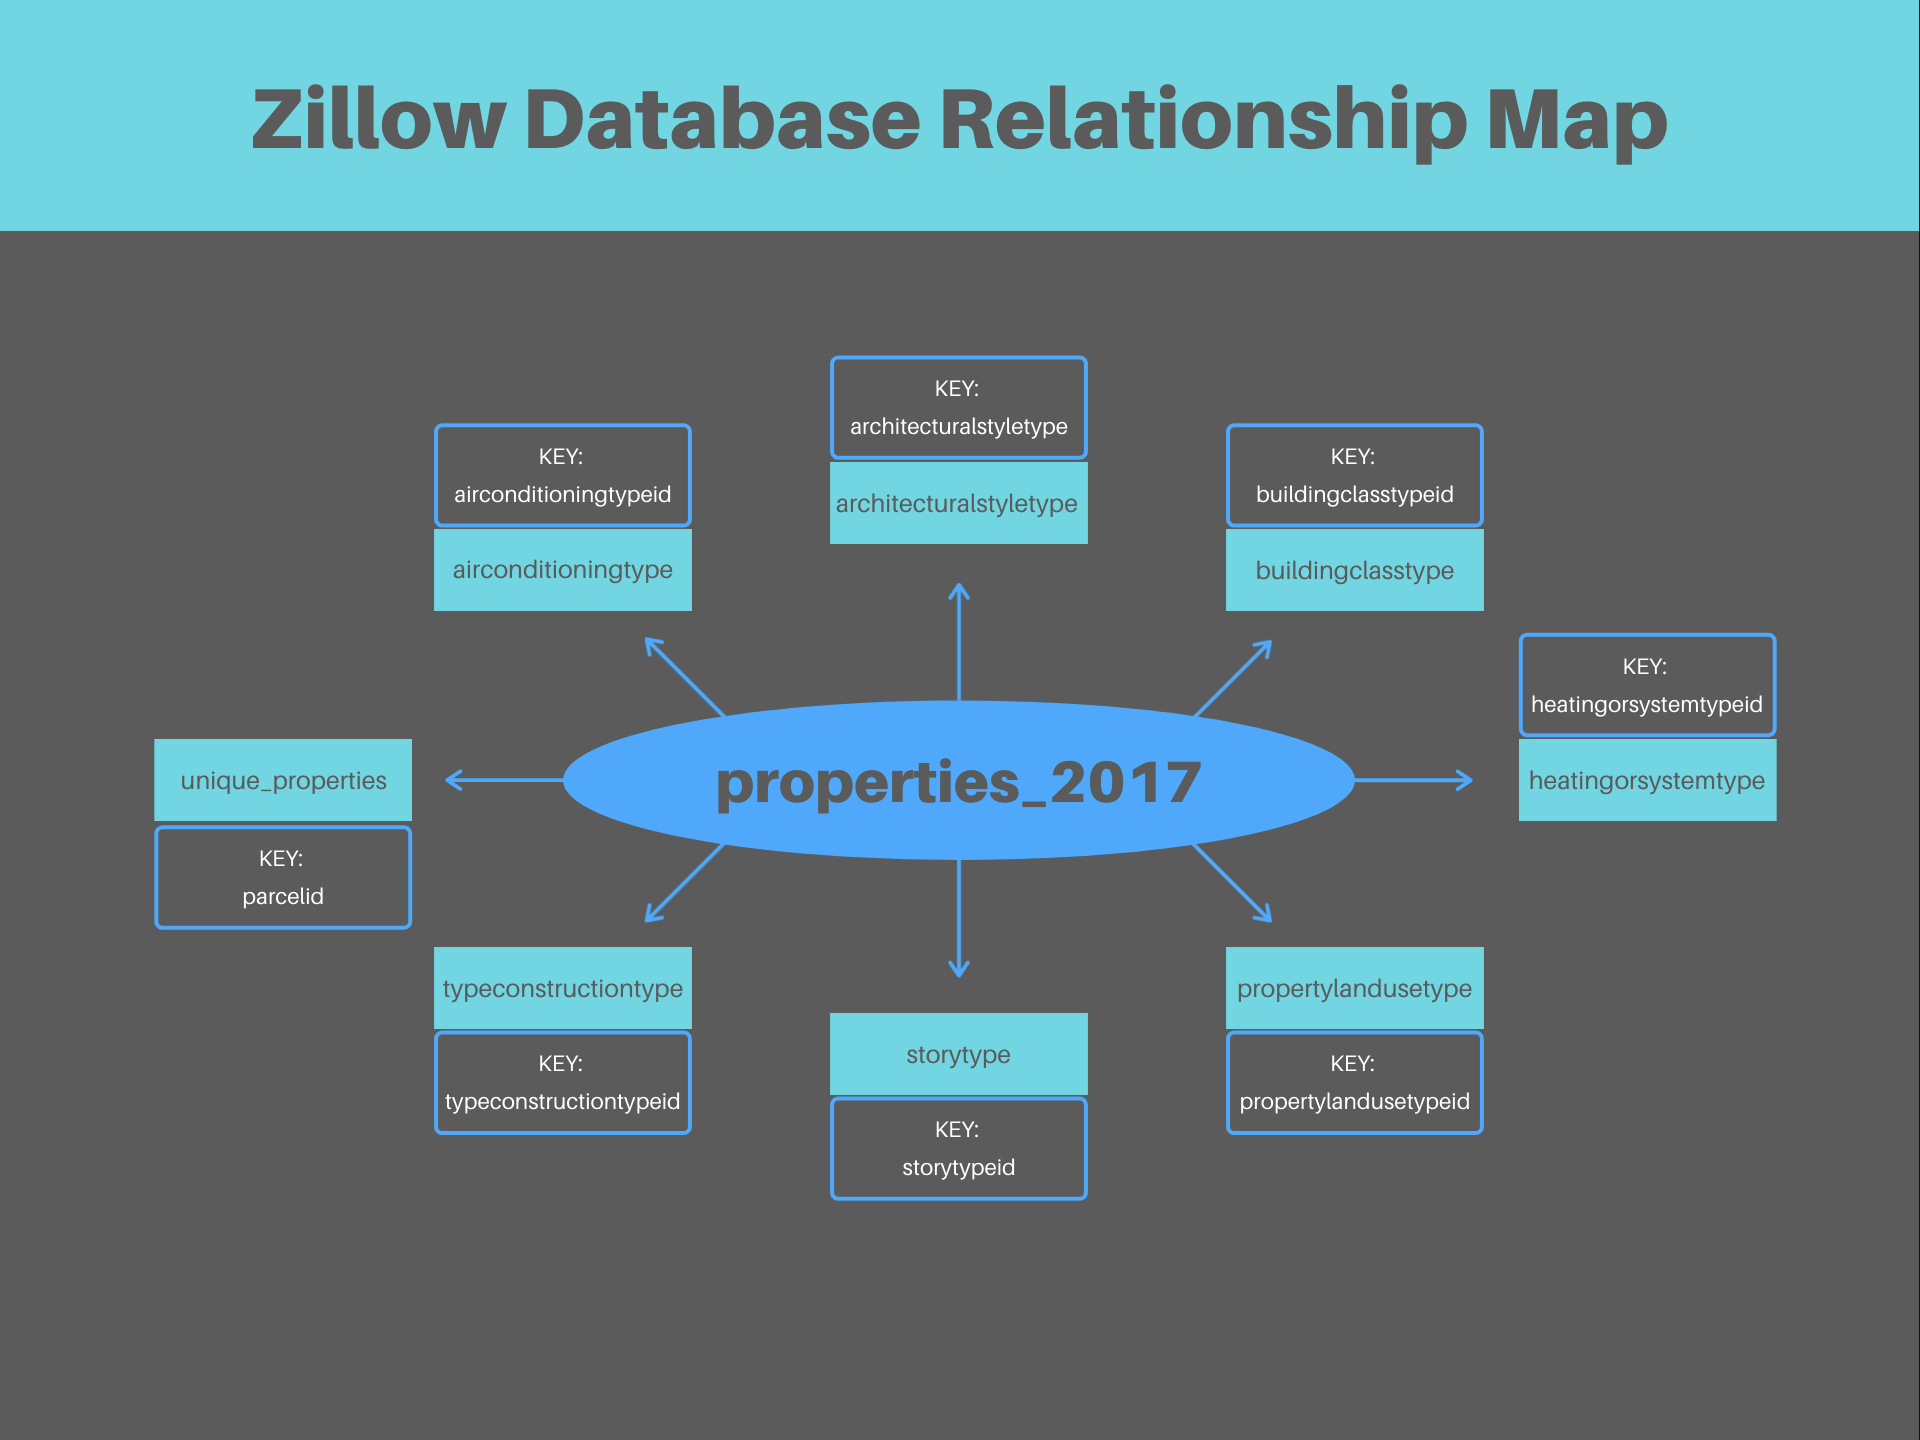
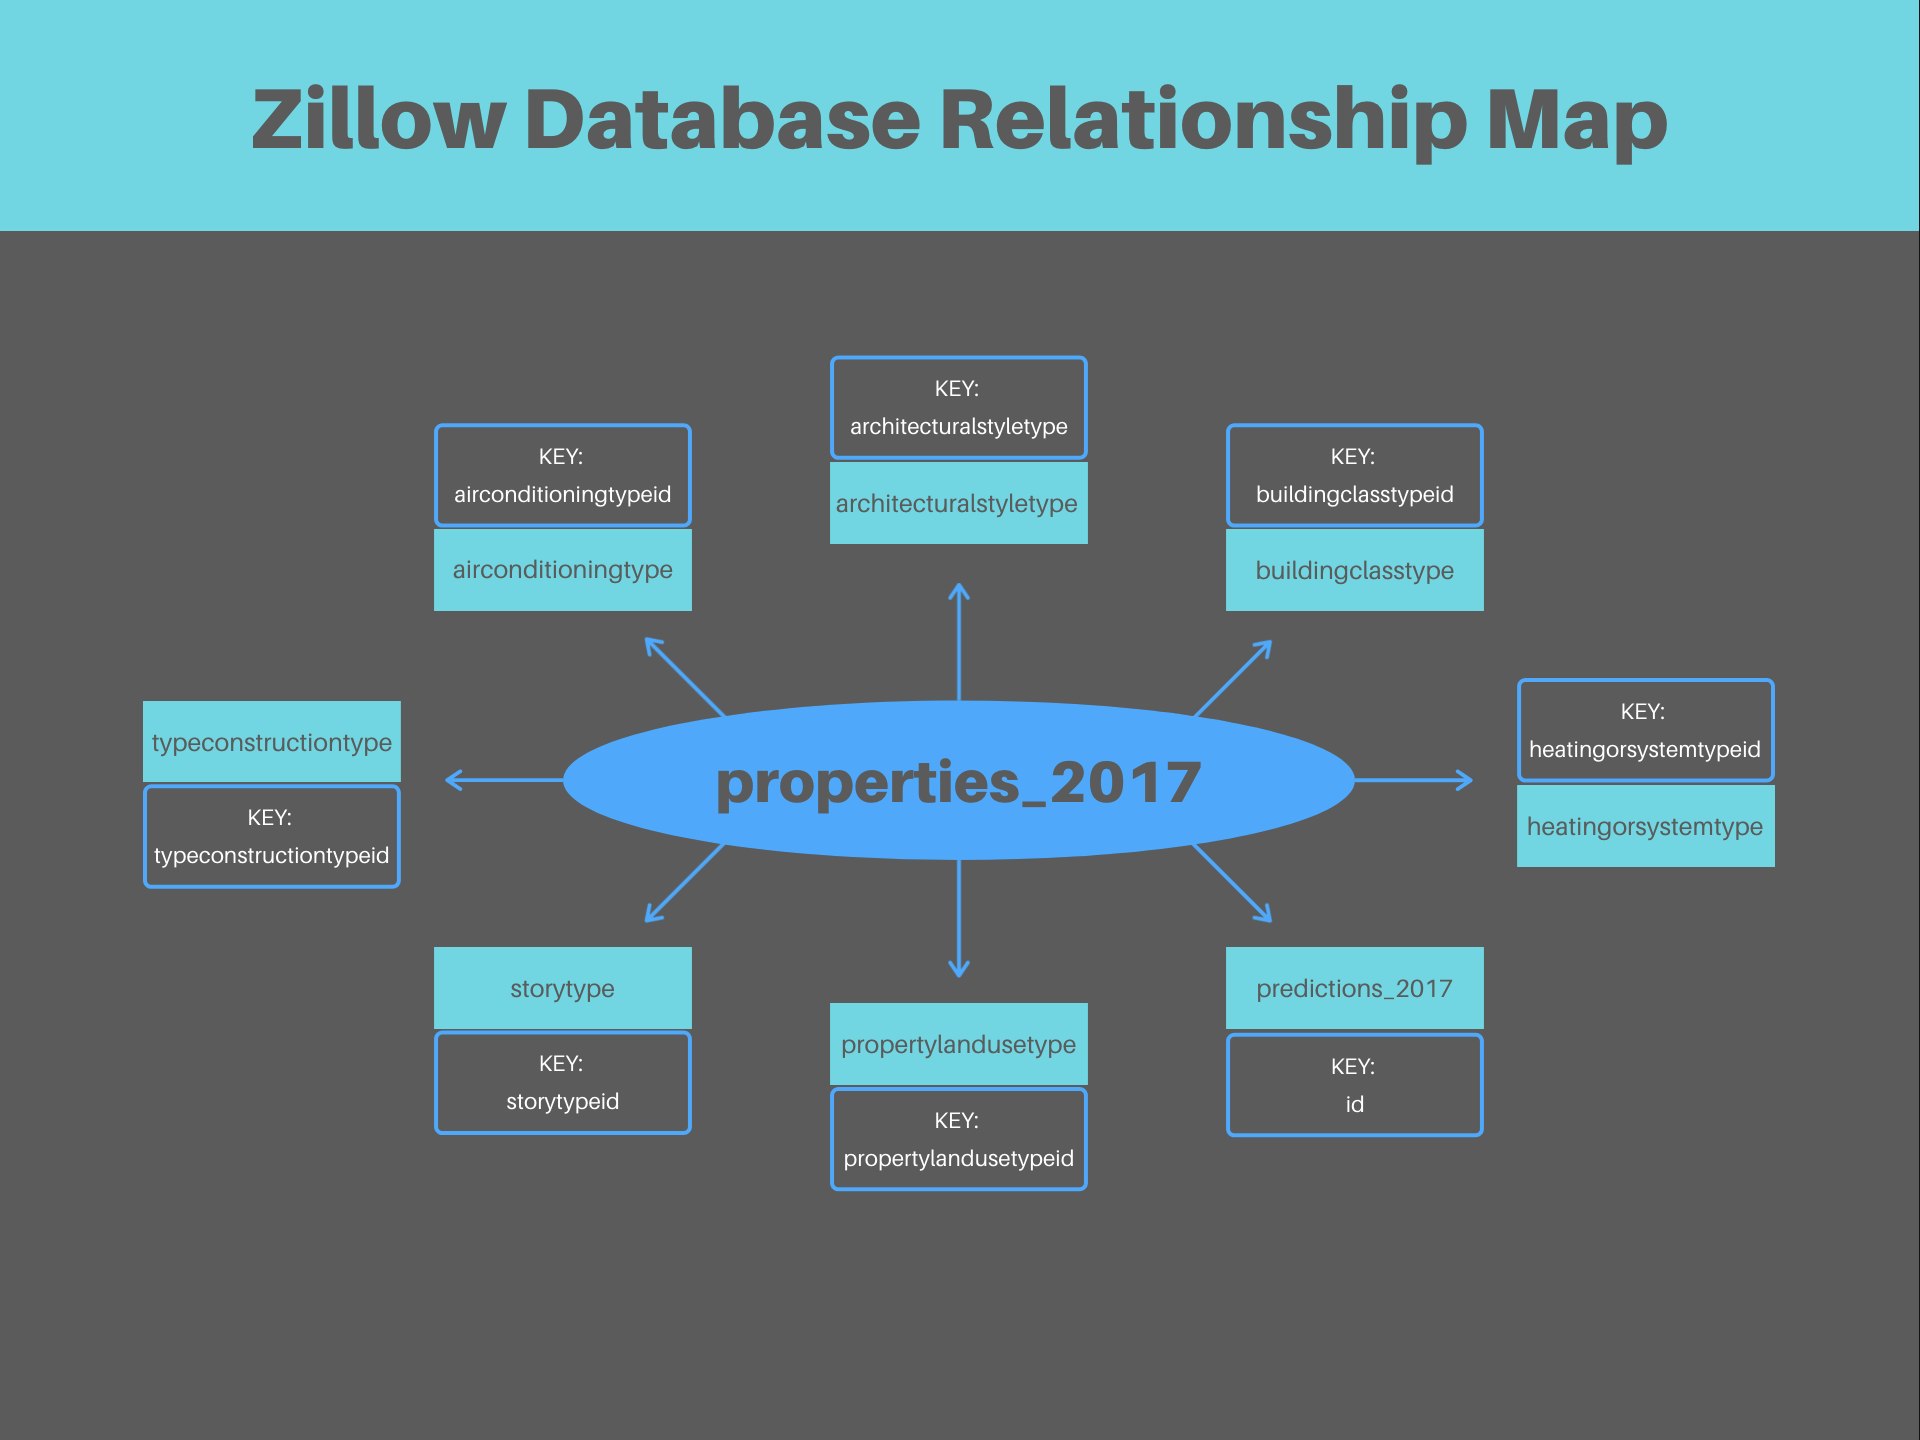
Update readme and dbmap

diff --git a/README.md b/README.md
@@ -58,7 +58,7 @@ WIP
 
 #### 1. Database Relationships
 
-The Codeup `zillow` SQL database contains twelve tables, nine of which are utilized in this project. `properties_2017` is the base table, and it is linked to eight separate tables: `airconditioningtype`, `architecturalstyletype`, `buildingclasstype`, `heatingorsystemtype`, `propertylandusetype`, `storytype`, and `unique_properties`. Each table is connected by a pointed arrow with the corresponding foreign keys that link them. This database is read into a pandas DataFrame and prepared in the manner described in the data dictionary below.
+The Codeup `zillow` SQL database contains twelve tables, nine of which are utilized in this project. `properties_2017` is the base table, and it is linked to eight separate tables: `airconditioningtype`, `architecturalstyletype`, `buildingclasstype`, `heatingorsystemtype`, `predictions_20171`, `propertylandusetype`, and `storytype`. Each table is connected by a pointed arrow with the corresponding foreign keys that link them. This database is read into a pandas DataFrame and prepared in the manner described in the data dictionary below.
 
 ![](https://github.com/ray-zapata/project_regression_zillow/blob/main/assets/databasemap.png)
 
